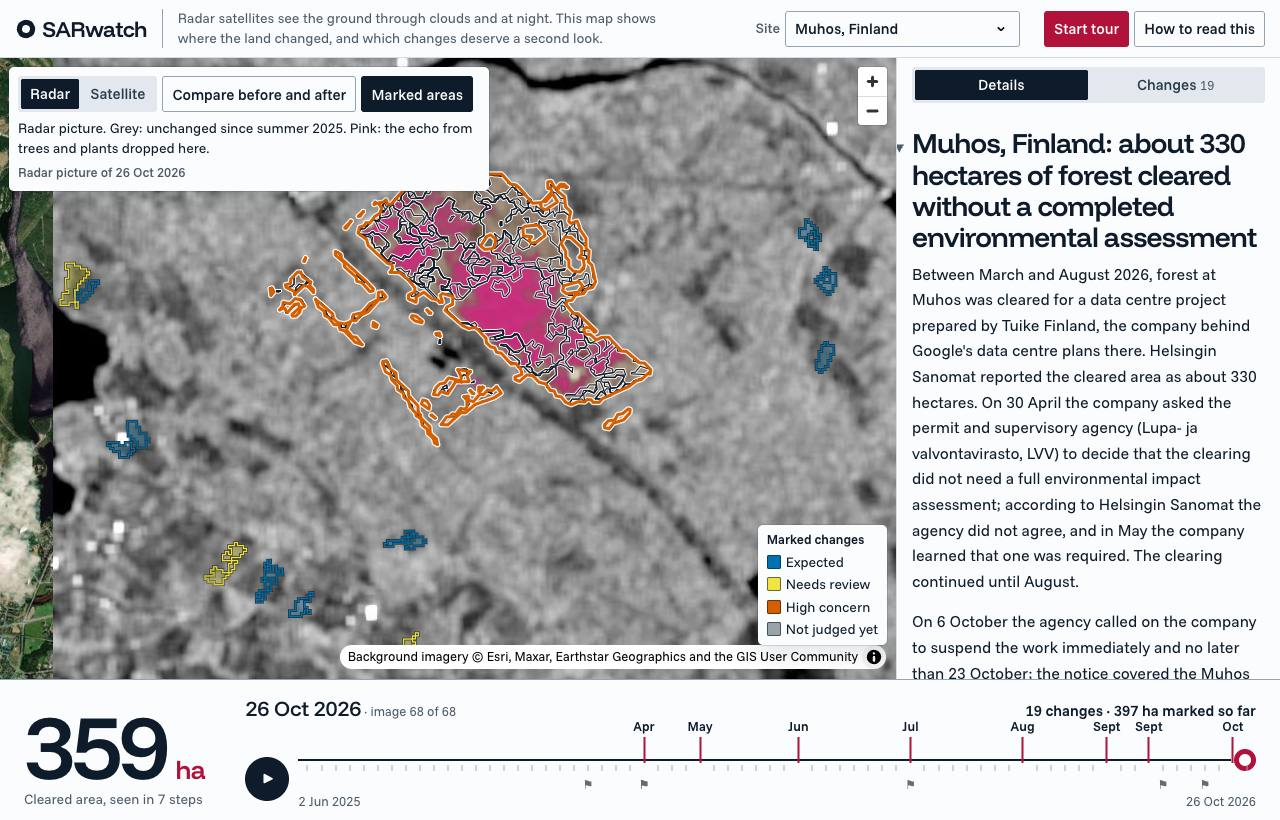
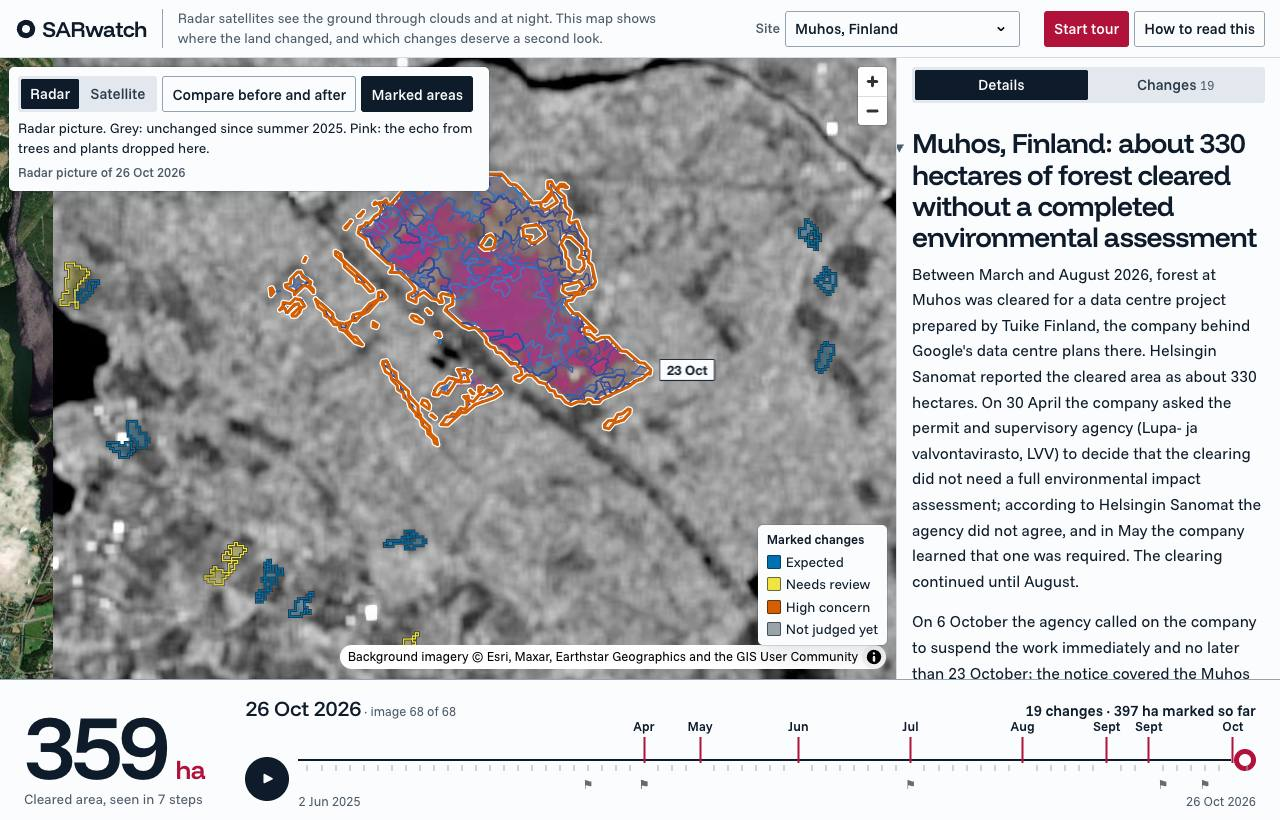
design: rings read as rings (tinted bands, blue-to-indigo ramp, no scribbled casing, latest ring named on the map); new pictures

diff --git a/app/js/map.js b/app/js/map.js
@@ -2,7 +2,7 @@
 // drawn by picture.js), verdict-colored change polygons with a date filter, selection, and a switch that hides them all.
 // A site with stages.geojson draws its grouped changes as growth rings: every stage up to the slider date is a thin contour,
 // the latest one bold and filled. The stages nest (each covers the earlier), so they read like the rings of a cut trunk.
-import { VERDICTS } from "./format.js";
+import { VERDICTS, formatDate } from "./format.js";
 
 const STYLE = {
   version: 8,
@@ -61,9 +61,12 @@ export function createChangeMap(container, { onSelect, bounds }) {
       map.addSource("stage", { type: "geojson", data: EMPTY });
       // the grown area: one light fill, one bold outline with a thin white casing (reads on the grey and the colour picture)
       const LATEST = ["get", "latest"];
-      map.addLayer({ id: "stage-fill", type: "fill", source: "stage", filter: LATEST, paint: { "fill-color": verdictColor, "fill-opacity": 0.16 } });
-      map.addLayer({ id: "stage-casing", type: "line", source: "stage", layout: { "line-join": "round" }, paint: { "line-color": "#ffffff", "line-width": ["case", LATEST, 5.5, 3], "line-opacity": 0.9, "line-opacity-transition": { duration: 450 } } });
-      map.addLayer({ id: "stage-line", type: "line", source: "stage", layout: { "line-join": "round" }, paint: { "line-color": ["case", LATEST, verdictColor, "#0d1b2a"], "line-width": ["case", LATEST, 3, 1.1], "line-opacity-transition": { duration: 450 } } });
+      // Every ring is tinted, so the middle of the area, covered by all of them, ends up the darkest, like a cut trunk.
+      // Older rings run from astra blue (the first) to indigo (the one before the latest); the latest keeps its verdict colour.
+      const ringColor = ["interpolate", ["linear"], ["get", "t"], 0, "#2f7fd0", 1, "#3a2a78"];
+      map.addLayer({ id: "stage-fill", type: "fill", source: "stage", paint: { "fill-color": ["case", LATEST, verdictColor, ringColor], "fill-opacity": ["case", LATEST, 0.16, 0.07] } });
+      map.addLayer({ id: "stage-casing", type: "line", source: "stage", layout: { "line-join": "round" }, paint: { "line-color": "#ffffff", "line-width": ["case", LATEST, 5.5, 0] } });
+      map.addLayer({ id: "stage-line", type: "line", source: "stage", layout: { "line-join": "round" }, paint: { "line-color": ["case", LATEST, verdictColor, ringColor], "line-width": ["case", LATEST, 3, 1.4] } });
       // grouped parts stay clickable but add no fill (a hairline opacity keeps them hit-testable)
       map.addLayer({ id: "changes-fill", type: "fill", source: "changes", paint: { "fill-color": verdictColor, "fill-opacity": ["case", ["get", "grouped"], 0.01, 0.3] } });
       map.addLayer({ id: "changes-casing", type: "line", source: "changes", filter: OWN_OUTLINE, paint: { "line-color": "#1b1b1b", "line-width": byZoom(2.6, 4.5) } });
@@ -101,8 +104,28 @@ export function createChangeMap(container, { onSelect, bounds }) {
   /** The rings to draw at the slider date: every stage at or before it, the latest one marked (none before the first). */
   function applyStage() {
     const upTo = stages.filter((f) => f.properties.date <= dateIso);
-    const rings = upTo.map((f, i) => ({ ...f, properties: { ...f.properties, ring: i, latest: i === upTo.length - 1 } }));
+    const rings = upTo.map((f, i) => ({
+      ...f, properties: { ...f.properties, ring: i, latest: i === upTo.length - 1, t: upTo.length > 1 ? i / (upTo.length - 1) : 0 },
+    }));
     map.getSource("stage").setData(rings.length ? { type: "FeatureCollection", features: rings } : EMPTY);
+    placeRingLabel(upTo.at(-1));
+  }
+
+  // The latest ring is named on the map: its month, at its easternmost point, clear of the controls (a flat label, no shadow).
+  let ringLabel = null;
+  function placeRingLabel(stage) {
+    if (!stage) return ringLabel?.remove(), (ringLabel = null);
+    const g = stage.geometry;
+    const pts = g.coordinates.flat(g.type === "MultiPolygon" ? 2 : 1);
+    const top = pts.reduce((best, p) => (p[0] > best[0] ? p : best), pts[0]);
+    if (!ringLabel) {
+      const el = document.createElement("div");
+      el.className = "ring-label";
+      ringLabel = new maplibregl.Marker({ element: el, anchor: "left", offset: [8, 0] }).setLngLat(top).addTo(map);
+    }
+    ringLabel.setLngLat(top);
+    ringLabel.getElement().textContent = formatDate(stage.properties.date).replace(/\s\d{4}$/, "");
+    ringLabel.getElement().style.display = overlayOn ? "" : "none";
   }
 
   /** A grouped part gets a thin outline while the pointer is on it or it is selected; other changes have their own. */
@@ -118,6 +141,7 @@ export function createChangeMap(container, { onSelect, bounds }) {
 
   function applyOverlay() {
     for (const id of OVERLAY_LAYERS) map.setLayoutProperty(id, "visibility", overlayOn ? "visible" : "none");
+    if (ringLabel) ringLabel.getElement().style.display = overlayOn ? "" : "none";
   }
 
   return {

diff --git a/app/css/style.css b/app/css/style.css
@@ -199,6 +199,12 @@ main { display: grid; grid-template-columns: minmax(0, 1fr) 384px; min-height: 0
   width: 14px; height: 14px; flex: none; border-radius: 2px; box-shadow: inset 0 0 0 1px rgb(13 27 42 / .6);
 }
 
+/* The latest ring's month, beside its easternmost point (js/map.js): flat, hairline-framed, like a slide annotation */
+.ring-label {
+  padding: 1px 7px; border: 1px solid var(--ink); border-radius: 2px; background: var(--raised); color: var(--ink);
+  font-size: var(--t-label); font-weight: 600; line-height: 1.4; white-space: nowrap; pointer-events: none;
+}
+
 /* MapLibre's own controls, in the same shape language */
 .maplibregl-ctrl-group { border-radius: var(--r-sm) !important; box-shadow: var(--shadow-1) !important; }
 .maplibregl-ctrl-top-right .maplibregl-ctrl { margin: var(--s-3) var(--s-3) 0 0; }
